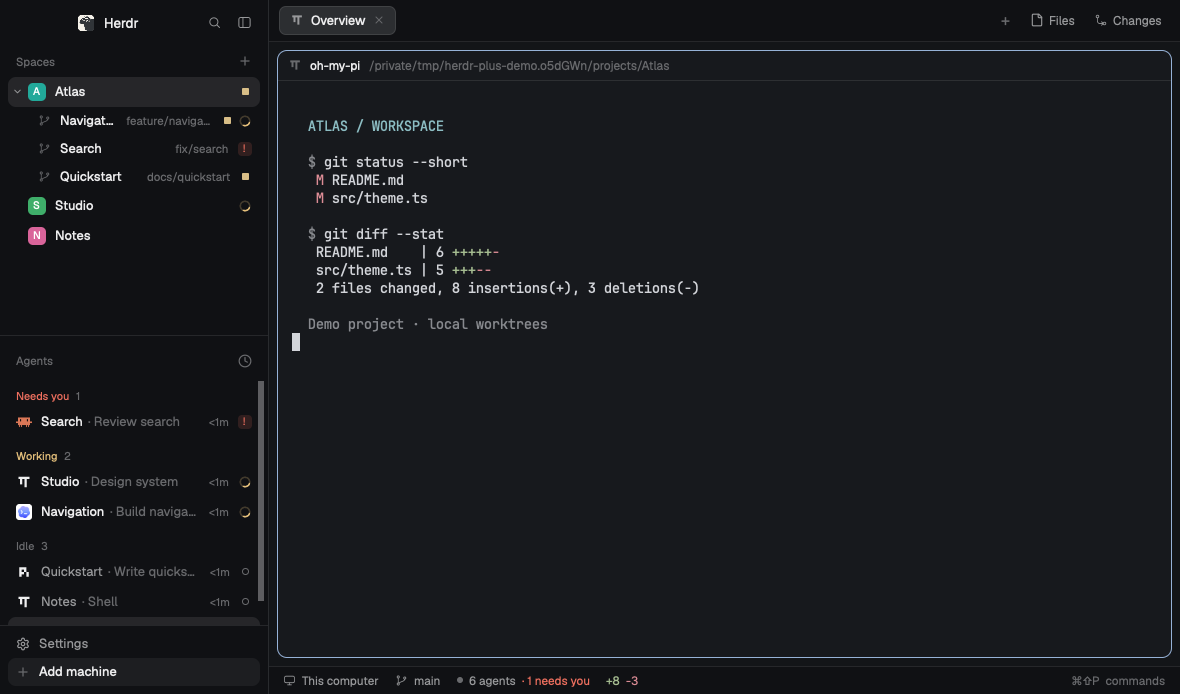
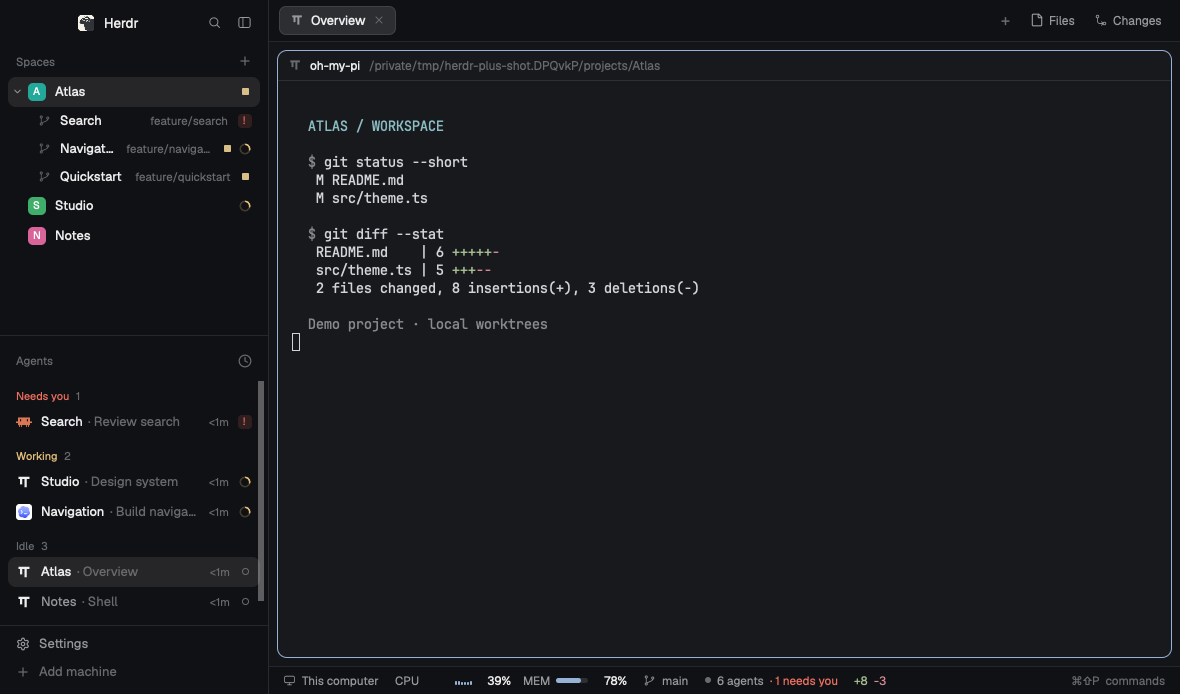
Add CPU and memory meters to the status bar
- Sample CPU and memory on the active workspace’s host.
- Document the meters and refresh the Gallery preview and README screenshots.

diff --git a/mods/workspace-git-status/host-usage.js b/mods/workspace-git-status/host-usage.js
@@ -1,0 +1,139 @@
+// SPDX-License-Identifier: Apache-2.0
+import { div } from "gpui-kit";
+import { h_flex } from "gpui-base";
+import { exec, window } from "herdr";
+
+const INTERVAL = 3000;
+const HISTORY = 16;
+const MEM_WIDTH = 32;
+
+// Both platforms take a one-second CPU snapshot, then read the latest memory.
+// One command per sample, including when the shown space is on a remote core.
+const PROBE = String.raw`
+set -eu
+export LC_ALL=C
+case "$(uname -s)" in
+  Darwin)
+    cpu=$(/usr/sbin/iostat -C -n 0 -c 2 -w 1)
+    printf '%s\n' "$cpu" | awk '/^[[:space:]]*[0-9]/ {line=$0} END {
+      if (split(line, v, " ") != 6) exit 1
+      printf "cpu %.0f %s %s %s\n", 100-v[3], v[4], v[5], v[6]
+    }'
+    total=$(/usr/sbin/sysctl -n hw.memsize)
+    /usr/bin/vm_stat | awk -v total="$total" '
+      NR==1 {for (i=1; i<NF; i++) if ($i=="of") size=$(i+1)}
+      /^Anonymous pages:/ {anon=$NF; a=1}
+      /^Pages wired down:/ {wired=$NF; w=1}
+      /^Pages occupied by compressor:/ {compressed=$NF; c=1}
+      /^Pages purgeable:/ {purgeable=$NF; p=1}
+      END {if (!size || !a || !w || !c || !p) exit 1
+        printf "mem %.0f %.0f\n", (anon+wired+compressed-purgeable)*size, total
+      }'
+    printf 'cores %s\n' "$(/usr/sbin/sysctl -n hw.logicalcpu)"
+    boot=$(/usr/sbin/sysctl -n kern.boottime | awk '{sub(/,$/, "", $4); print $4}')
+    printf 'up %s\n' "$(( $(date +%s) - boot ))"
+    ;;
+  Linux)
+    { head -n 1 /proc/stat; sleep 1; head -n 1 /proc/stat; cat /proc/loadavg; } | awk '
+      NR<=2 && $1=="cpu" {for (i=2; i<=9; i++) total[NR]+=$i; idle[NR]=$5+$6}
+      NR==3 {delta=total[2]-total[1]; if (delta<=0) exit 1
+        printf "cpu %.0f %s %s %s\n", 100*(1-(idle[2]-idle[1])/delta), $1, $2, $3
+      }'
+    awk '/^MemTotal:/ {total=$2} /^MemAvailable:/ {available=$2; found=1}
+      END {if (!total || !found) exit 1; printf "mem %.0f %.0f\n", (total-available)*1024, total*1024}' /proc/meminfo
+    printf 'cores %s\n' "$(getconf _NPROCESSORS_ONLN)"
+    awk '{print "up", int($1)}' /proc/uptime
+    ;;
+  *) exit 1 ;;
+esac
+# POSIX df reports in 1024-byte blocks. Use the home filesystem for this host.
+df -Pk "$HOME" | awk 'END {if (NR>1 && $2 ~ /^[0-9]+$/) printf "disk %.0f %.0f %d\n", $4*1024, $2*1024, $5}'
+`;
+
+const clampPercent = n => Math.min(100, Math.max(0, Math.round(n)));
+
+async function sample(on) {
+  const result = await exec("sh", ["-c", PROBE], { on, timeout: 4500 });
+  if (result.code !== 0) return null;
+  const values = {};
+  for (const line of result.stdout.trim().split("\n")) {
+    const [key, ...fields] = line.trim().split(/\s+/);
+    values[key] = fields.map(Number);
+  }
+  const { cpu, mem, cores, up, disk } = values;
+  if (cpu?.length !== 4 || mem?.length !== 2 || !cpu.every(Number.isFinite) ||
+      !mem.every(Number.isFinite) || mem[1] <= 0) return null;
+  const used = Math.max(0, Math.min(mem[0], mem[1]));
+  return { cpu: clampPercent(cpu[0]), load: cpu.slice(1), used, total: mem[1],
+    memory: clampPercent(used / mem[1] * 100), cores: cores?.[0], up: up?.[0], disk };
+}
+
+const gib = bytes => `${(bytes / 1073741824).toFixed(1)} GiB`;
+
+function details(s, on) {
+  const lines = [on ?? "This computer",
+    `CPU ${s.cpu}%${s.cores > 0 ? ` of ${s.cores} logical cores` : ""} · load ${s.load.map(n => n.toFixed(2)).join(" ")}`,
+    `Memory ${gib(s.used)} of ${gib(s.total)} (${s.memory}%)`];
+  if (s.disk?.length === 3 && s.disk.every(Number.isFinite)) {
+    const [free, total, used] = s.disk;
+    lines.push(`Home disk ${gib(free)} free of ${gib(total)} (${used}% used)`);
+  }
+  if (Number.isFinite(s.up) && s.up >= 0) {
+    const minutes = Math.floor(s.up / 60);
+    lines.push(`Up ${Math.floor(minutes / 1440)}d ${Math.floor(minutes / 60) % 24}h ${minutes % 60}m`);
+  }
+  return lines.join("\n");
+}
+
+export class HostUsage {
+  constructor(cx) {
+    this.host = null;
+    this.running = false;
+    cx.timer.every(INTERVAL, cx => { if (window()?.active) this.refresh(cx); });
+  }
+
+  follow(on, cx) {
+    if (on === null && window()?.platform === "windows") { this.host = null; return; }
+    if (this.host?.on === on) return;
+    this.host = { on, history: [], last: 0, sample: null };
+    this.refresh(cx);
+  }
+
+  refresh(cx) {
+    const host = this.host;
+    if (!host || this.running) return;
+    this.running = true;
+    const started = Date.now();
+    cx.spawn(async cx => {
+      const next = await sample(host.on).catch(() => null);
+      this.running = false;
+      if (this.host !== host) { this.refresh(cx); return; }
+      const visible = Boolean(host.sample || next);
+      if (!next || started - host.last > 2 * INTERVAL) host.history.length = 0;
+      if (next) {
+        if (host.history.length === HISTORY) host.history.shift();
+        host.history.push(next.cpu);
+      }
+      host.last = started;
+      host.sample = next;
+      if (visible) cx.notify();
+    });
+  }
+
+  render(t) {
+    const host = this.host;
+    if (!host?.sample) return null;
+    const s = host.sample;
+    const graph = h_flex().w(HISTORY * 3 - 1).h(10).gap(1).items_end().justify_end();
+    for (const n of host.history) {
+      graph.child(div().w(2).h(Math.max(1, n / 10)).flex_none().rounded(1).bg(n ? t.accent : t.dim));
+    }
+    const percent = n => div().w(34).flex_none().whitespace_nowrap().text_right().text_color(t.foreground).child(`${n}%`);
+    return h_flex().id("workspace-host-usage").gap(12).flex_none().items_center().tooltip(details(s, host.on))
+      .child(h_flex().gap(5).items_center().child("CPU").child(graph).child(percent(s.cpu)))
+      .child(h_flex().gap(5).items_center().child("MEM")
+        .child(div().w(MEM_WIDTH).h(5).rounded(3).bg(t.raised).overflow_hidden()
+          .child(div().w(MEM_WIDTH * s.memory / 100).h_full().rounded(3).bg(t.accent)))
+        .child(percent(s.memory)));
+  }
+}

diff --git a/mods/workspace-git-status/main.js b/mods/workspace-git-status/main.js
@@ -4,6 +4,7 @@
 import { View, div, svg } from "gpui-kit";
 import { h_flex } from "gpui-base";
 import { spaces, agents, focused, exec, checking, theme, run, window, keys } from "herdr";
+import { HostUsage } from "./host-usage.js";
 
 const READ = ["--no-optional-locks", "-c", "core.fsmonitor=false", "-c", "diff.autoRefreshIndex=false"];
 // An unborn branch has no HEAD, so compare against Git's canonical empty tree.
@@ -42,7 +43,9 @@ export default class WorkspaceStatus extends View {
     this.target = null;
     this.totals = null;
     this.loading = false;
-    if (!checking()) cx.timer.every(5000, cx => { if (window()?.active) this.refresh(cx); });
+    if (checking()) return;
+    this.hostUsage = new HostUsage(cx);
+    cx.timer.every(5000, cx => { if (window()?.active) this.refresh(cx); });
   }
 
   refresh(cx) {
@@ -86,11 +89,14 @@ export default class WorkspaceStatus extends View {
     this.followFocus(cx);
     const t = theme();
     const space = spaces().find(s => s.active);
+    this.hostUsage?.follow(space?.machine ?? null, cx);
+    const usage = this.hostUsage?.render(t);
     const list = agents();
     const needs = list.filter(a => a.status === "blocked").length;
     const label = (icon, text) => h_flex().gap(6).items_center().child(svg(`mods/workspace-chrome/${icon}.svg`).size(13)).child(text);
     return h_flex().size_full().px(14).gap(16).items_center().bg(t.chrome).border_t(1).border_color(t.border).text_size(11.8).text_color(t.muted)
       .child(label(space?.machine ? "server" : "monitor", space?.machine ?? "This computer"))
+      .when(Boolean(usage), el => el.child(usage))
       .when(Boolean(space?.branch), el => el.child(label("branch", space.branch)))
       .child(h_flex().gap(6).items_center().child(div().size(6).rounded(3).bg(t.dim)).child(`${list.length} agents`)
         .when(needs > 0, el => el.child(div().text_color(t.blocked).child(`· ${needs} needs you`))))

diff --git a/RECIPE.md b/RECIPE.md
@@ -7,27 +7,32 @@ The stock Herdr workspace with foldable worktrees, change and agent badges in Sp
 ## What you see
 
 The 268 px sidebar has the normal Herdr chrome, Spaces above Agents, and the normal footer. Top-level avatars align in one column; a chevron sits to their left only for projects with nested worktrees. Nested rows are 28 px high with an indented branch icon; parent rows are 30 px. Git details and badges sit at the right edge. On the right, the normal tabs, terminal panes, Files and Changes panels sit above a 28 px status bar. Added and deleted line counts use the theme’s green and red, just after the agent count. Both mods follow the active Herdr theme.
+The machine name is followed by a compact CPU bar history and memory progress bar, each with its current percentage.
 
 ## How it behaves
 
 - The chevron hides or reveals only its worktree rows and remembers the choice. Selecting a row, reordering by dragging, and opening the context menu still work. If a hidden worktree is active, the parent row is highlighted.
 - Expanded rows report only their own state. A folded parent shows a single amber square if any checkout in the group has uncommitted changes, and its highest-priority agent state across all tabs and panes: blocked (`!`), working (animated ring), then done (solid dot). Idle has no badge. The parent’s Git branch and ahead/behind counts never include children.
 - The status bar follows the focused terminal, including the directory scope. It hides counts when no tracked text lines have changed, or when there is no Git checkout.
+- Usage follows the machine named in the status bar. The CPU history keeps 16 one-second snapshots, sampled every three seconds while the window is active. Memory shows the latest sample. Hover over either meter for logical core count, load averages, memory totals, home filesystem space and uptime.
 
 ## Built from
 
 - `layouts/herdr-plus.json` clones the shipped `main` tree, replacing the `spaces` and `status` blocks. It uses the shipped `workspace-chrome`, `agents`, `tabs`, `pane`, `files`, and `changes` mods; its settings thumbnail is `layouts/herdr-plus.svg`.
 - `mods/spaces-agent-status` groups spaces by machine and Git common directory, uses `agents()` for live status, and stores fold state locally. It reuses the shipped branch, chevron, and spinner assets. Git metadata comes from read-only `exec("git", …)` calls where each checkout lives; `watchFolder()` refreshes local data. The inherited sidebar uses `hc` to list and manage machines.
 - `mods/workspace-git-status` uses `focused()` to run a read-only, directory-scoped `git diff --numstat` on the terminal’s machine. It updates on focus or directory change and polls every five seconds while the window is active. Neither mod adds external network calls.
+- `host-usage.js` runs one read-only shell probe through `exec` on the displayed machine per sample. It uses `iostat` and `vm_stat` on macOS, `/proc` on Linux, and `df` for home filesystem space. No installer, background daemon, or external service is needed.
 
 ## Watch out
 
 - A worktree is foldable only when its main checkout also has a Space. Worktrees on different machines never group together.
 - The amber square includes untracked files; line counts exclude untracked files, binary changes, and changes outside the terminal’s directory. The status bar compares the working tree with `HEAD` (or an empty tree before the first commit), not two diff totals added together.
 - Uses the desktop app’s JavaScript mod API, not the Herdr TUI. Both mods depend on the shipped `workspace-chrome` assets; don’t copy the full app defaults into the package.
+- Usage is shown only for macOS and Linux machines that return a complete CPU and memory sample. Switching machines clears the graph rather than mixing hosts.
 
 ## Done when
 
 1. Fold a parent with a dirty worktree and a working agent elsewhere in the group. Only the parent remains visible, with the square and spinner. A blocked agent takes precedence. Expanding restores each row’s own badges.
 2. Change tracked text in two sibling directories. Focus a terminal in one directory and verify the bar counts only its changes. Switch or revert the edits and verify the count updates.
 3. `herdr-app check` passes for both mods, and `layout.switch` can switch between `main` and `herdr-plus`.
+4. On macOS or Linux, the bar shows CPU and memory percentages beside the machine name. Hover for the host details; change machines and verify old samples do not carry over.

diff --git a/README.md b/README.md
@@ -1,18 +1,21 @@
 # Herdr Plus
 
-**See what’s running and what changed without leaving your workspace.**
+**See what’s running, what changed, and how busy the machine is.**
 
 A community layout for [Herdr Desktop](https://herdr.dev/). It keeps the default layout familiar and replaces just the Spaces list and the bottom status bar.
 
-![Herdr Plus with expanded worktrees, agent badges, and line counts](preview.png)
+![Herdr Plus showing expanded worktrees, agent badges, CPU history, memory usage, and Git line counts](preview.png)
 
 | | What you get |
 |---|---|
 | **Foldable worktrees** | Fold a project without stopping its agents. The parent row shows whether anything changed and the most urgent agent status across the group. Branch and `↑/↓` still describe the parent checkout. |
 | **Status at a glance** | An amber square marks uncommitted changes. A ring spins while an agent is working, `!` means blocked, and a dot marks done. Priority: blocked → working → done. |
 | **Live line counts** | Green `+` and red `−` show tracked text changes against `HEAD` under the focused terminal’s current directory, including staged and unstaged edits. |
+| **Machine usage** | The status bar follows the active workspace’s machine (macOS or Linux). It shows one-second CPU snapshots every three seconds while the window is active, plus the latest memory usage. Hover for CPU load, memory totals, home disk space, and uptime. |
 
 ![Close-up of the folded Spaces sidebar](screenshots/folded-worktrees.png)
+
+![Close-up of CPU history, the memory meter, and Git line counts](screenshots/status-bar.png)
 
 ## Install
 
